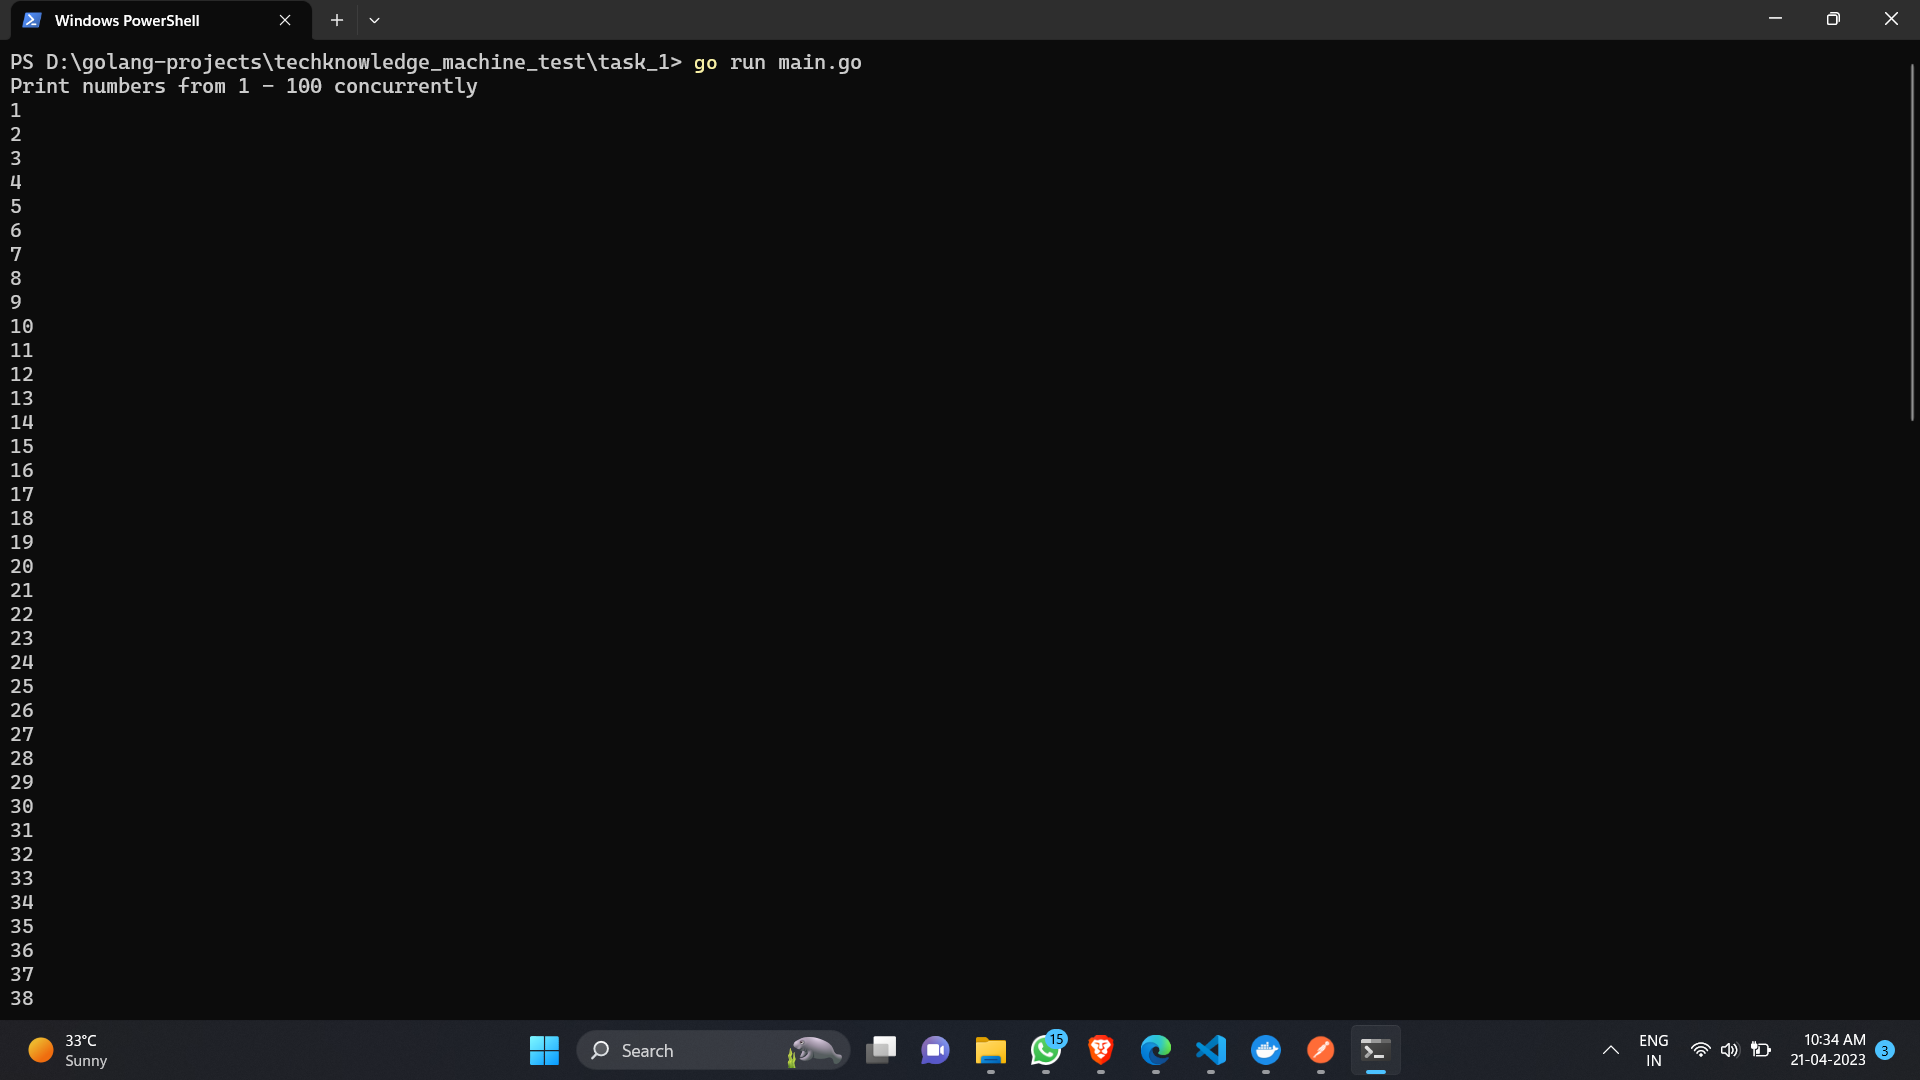
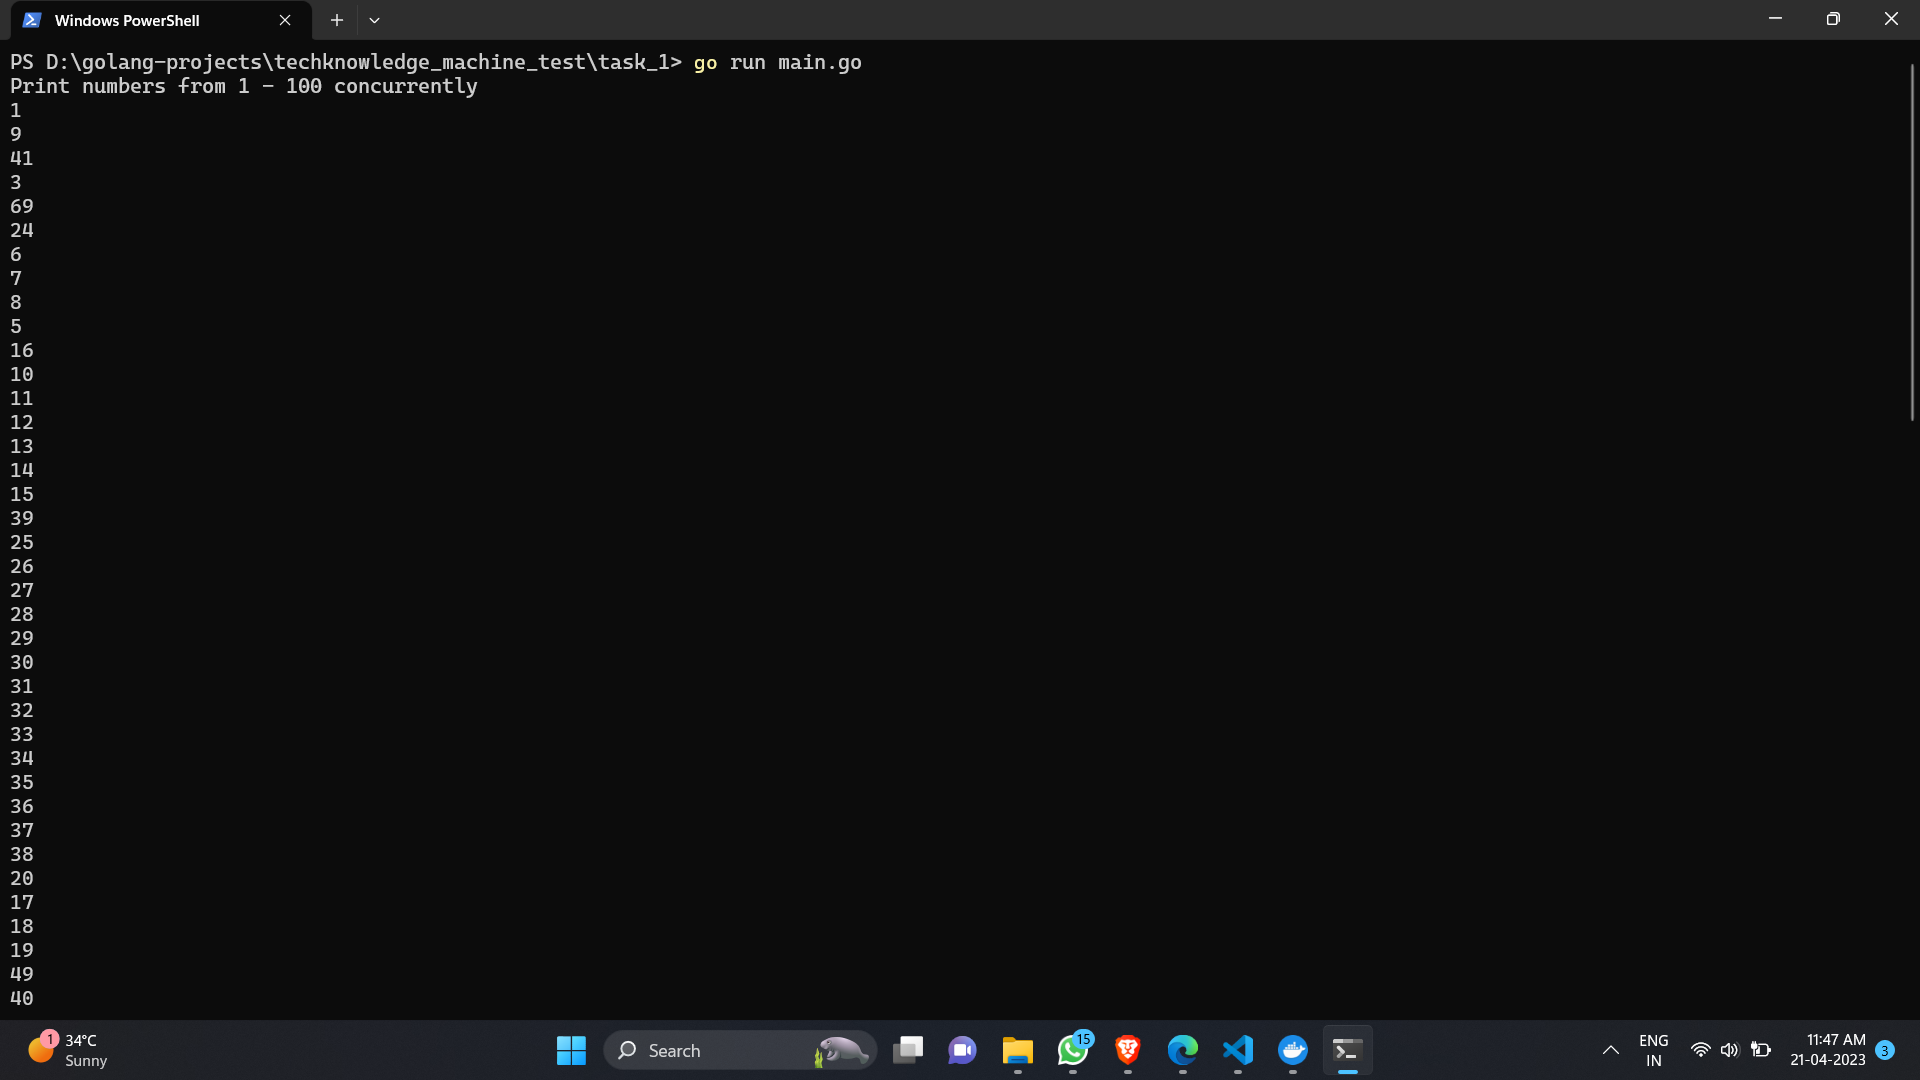
Updated the data

diff --git a/task_4/cmd/api/main.go b/task_4/cmd/api/main.go
@@ -4,36 +4,20 @@ import (
 	"fmt"
 	"log"
 	"net/http"
-	"os"
 
-	"example.com/machine_test/task_4/pkg/db"
 	"example.com/machine_test/task_4/pkg/routes"
 	"github.com/gorilla/mux"
-	"github.com/joho/godotenv"
 )
 
-var port string
-
-func init() {
-	// Loading the .env file
-	err := godotenv.Load(".env")
-	if err != nil {
-		log.Fatal("Error loading .env : ", err)
-	}
-
-	// Connecting to Mongo DB
-	err = db.ConnectMongo()
-	if err != nil {
-		log.Fatal(err)
-	}
-}
+const (
+	port = "3000"
+)
 
 func main() {
 	// Creating a new mux router
 	mux := mux.NewRouter()
 
 	routes.InitializeRoutes(mux)
-	port = os.Getenv("SERVER_PORT")
 
 	log.Printf("Starting server on port :%s", port)
 	err := http.ListenAndServe(fmt.Sprintf(":%s", port), mux)

diff --git a/task_1/main.go b/task_1/main.go
@@ -20,6 +20,6 @@ func main() {
 		}(i)
 
 		// Wait until the go routine finish the task
-		wg.Wait()
 	}
+	wg.Wait()
 }

diff --git a/task_4/README.md b/task_4/README.md
@@ -1,1 +1,19 @@
-https://www.postman.com/abgth/workspace/machine-test/collection/20732200-97053ba0-f54a-4997-806a-5a7759a97ad0?action=share&creator=20732200
+# Task - 4
+
+Run the below command from <strong>task_4</strong> directory - <br>
+`go run cmd/api/main.go`
+
+<br>
+
+Test routes in `localhost:3000`
+
+<br>
+
+You can also this postman api collection link to ease the process - 
+[Postman API Collection Link](https://www.postman.com/abgth/workspace/machine-test/collection/20732200-97053ba0-f54a-4997-806a-5a7759a97ad0?action=share&creator=20732200)
+
+## Outputs
+
+### Inserting an item
+`localhost:3000/items`<br>
+[insert-one-item](outputs/insert-one-item.png)

diff --git a/task_1/README.md b/task_1/README.md
@@ -1,1 +1,8 @@
-task_1
+# Task - 1
+A program that uses Go's concurrency features to print the numbers from 1 to 100 concurrently.
+
+Used waitgroups to make the main goroutine wait for all the other go routine to finish.
+
+## Outputs
+![1](outputs/1.png)<br><br>
+![2](outputs/2.png)
